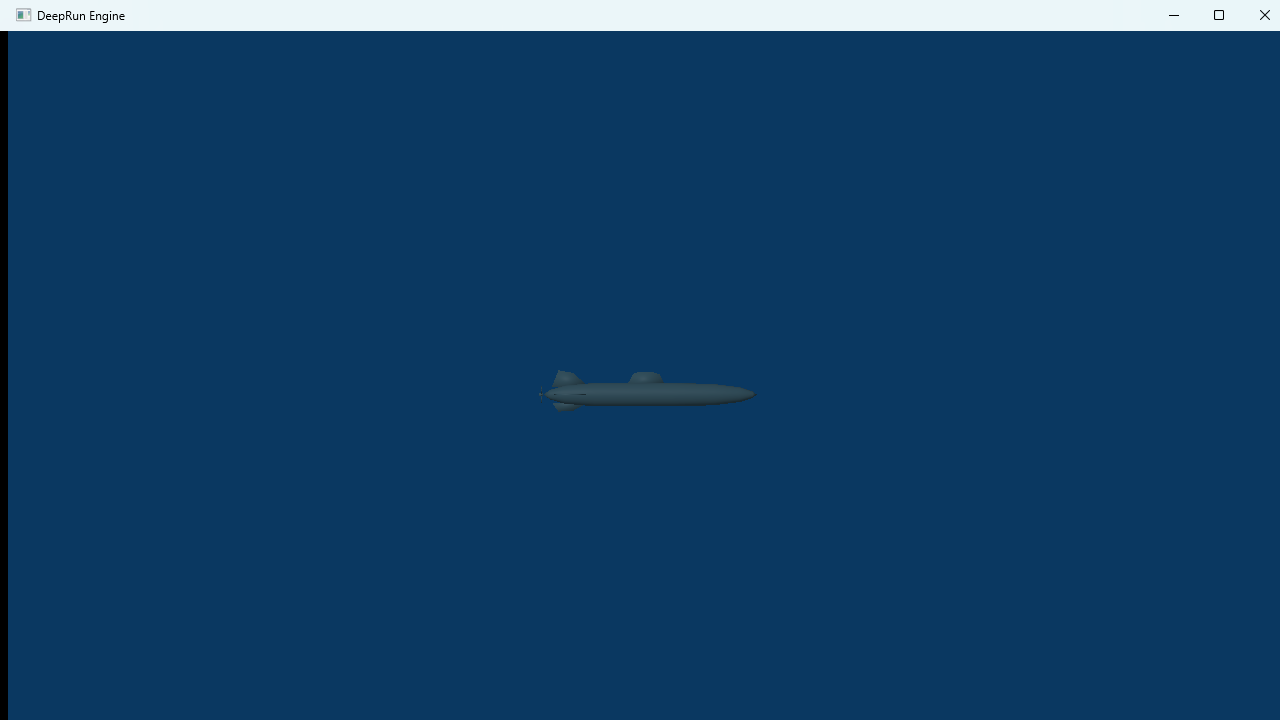
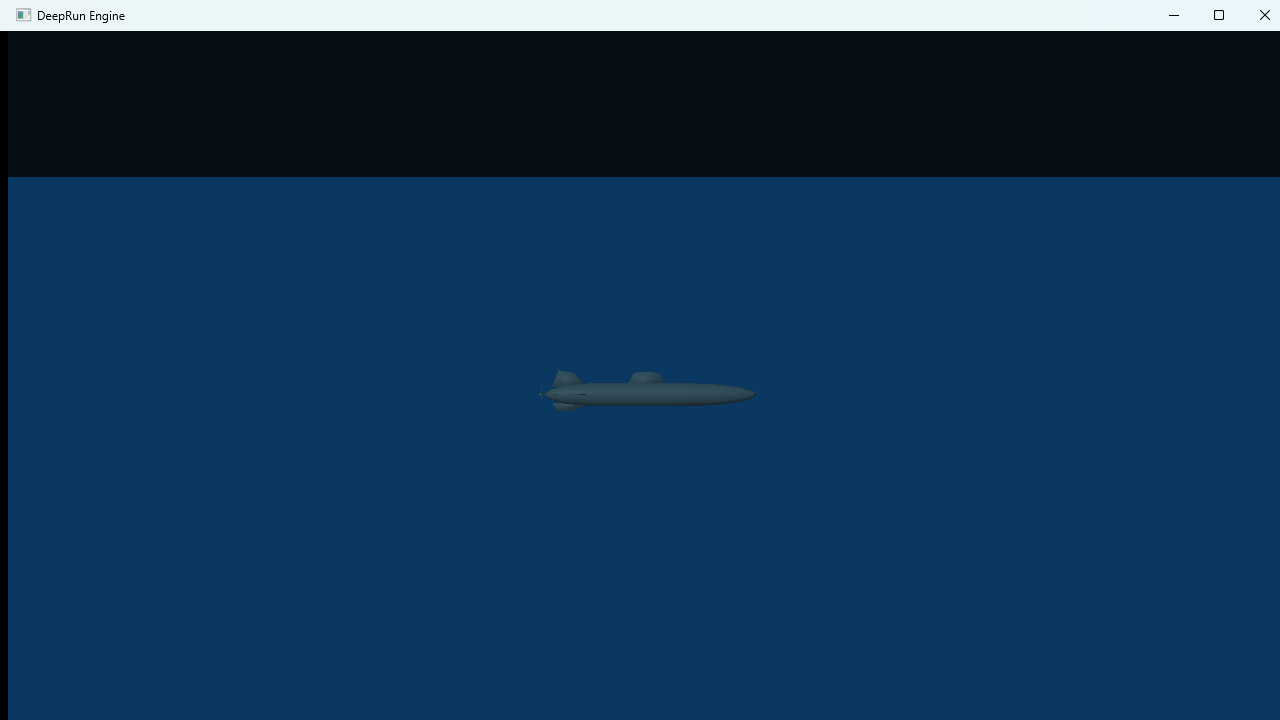
M2 D2

Changed region(s): [[0.0, 0.0306, 1.0, 0.2444]]

diff --git a/Engine/Render/D3D12Renderer.cpp b/Engine/Render/D3D12Renderer.cpp
@@ -796,41 +796,35 @@ public:
         {
             return std::unexpected("render target has no size for viewport clear");
         }
-        if (!color.IsFinite())
+        const auto validatedColor = ValidateRgbaColor(color);
+        if (!validatedColor)
         {
-            return std::unexpected("viewport clear color contains non-finite values");
+            return std::unexpected(validatedColor.error());
         }
 
-        const auto validated = ValidateViewportRect(rect);
-        if (!validated)
+        const auto validatedRect = ValidateViewportRect(rect);
+        if (!validatedRect)
         {
-            return std::unexpected(validated.error());
+            return std::unexpected(validatedRect.error());
+        }
+        const auto pixelRect = ToPixelRect(*validatedRect, width, height);
+        if (!pixelRect)
+        {
+            return std::unexpected(pixelRect.error());
         }
 
-        // Normalized viewport coordinates -> integer pixel rectangle. D3D12 scissor rects use a top-left
-        // origin with right/bottom exclusive, so left/top edges floor and right/bottom edges ceil (a tiny
-        // epsilon absorbs floating-point drift at mathematically exact boundaries): a rect touching a
-        // viewport edge covers exactly its pixels without gaps or overruns.
-        constexpr float PixelEpsilon = 1.0e-6F;
-        const auto floorPixel = [](const float value, const std::uint32_t extent) noexcept {
-            return static_cast<std::uint32_t>(std::clamp(std::floor(value + PixelEpsilon), 0.0F,
-                                                         static_cast<float>(extent)));
-        };
-        const auto ceilPixel = [](const float value, const std::uint32_t extent) noexcept {
-            return static_cast<std::uint32_t>(std::clamp(std::ceil(value - PixelEpsilon), 1.0F,
-                                                         static_cast<float>(extent)));
-        };
-        D3D12_RECT pixelRect{
-            .left = static_cast<LONG>(floorPixel(validated->left * static_cast<float>(width), width)),
-            .top = static_cast<LONG>(floorPixel(validated->top * static_cast<float>(height), height)),
-            .right = static_cast<LONG>(ceilPixel(validated->right * static_cast<float>(width), width)),
-            .bottom = static_cast<LONG>(ceilPixel(validated->bottom * static_cast<float>(height), height))};
-
-        const D3D12_RECT previousScissor = currentScissorRect;
-        const FLOAT clearColor[4] = {color.r, color.g, color.b, color.a};
-        commandList->RSSetScissorRects(1, &pixelRect);
-        commandList->ClearRenderTargetView(rtvHandles[frameIndex], clearColor, 0, nullptr);
-        commandList->RSSetScissorRects(1, &previousScissor);
+        // D3D12 ClearRenderTargetView is bounded by its OWN rect array — not by the rasterizer scissor.
+        // NumRects=0/pRects=nullptr would clear the ENTIRE render target regardless of any scissor, so the
+        // pixel rect must be passed explicitly (M2 Slice D2 correction). No scissor save/restore is needed:
+        // the model draw path keeps the full-viewport scissor set by BeginFrame.
+        const D3D12_RECT clearRect{
+            .left = static_cast<LONG>(pixelRect->left),
+            .top = static_cast<LONG>(pixelRect->top),
+            .right = static_cast<LONG>(pixelRect->right),
+            .bottom = static_cast<LONG>(pixelRect->bottom)};
+        const FLOAT clearColor[4] = {validatedColor->r, validatedColor->g, validatedColor->b,
+                                     validatedColor->a};
+        commandList->ClearRenderTargetView(rtvHandles[frameIndex], clearColor, 1, &clearRect);
         return {};
     }
 
@@ -887,10 +881,14 @@ public:
         viewport.Width = static_cast<float>(width);
         viewport.Height = static_cast<float>(height);
         viewport.MaxDepth = 1.0F;
-        currentScissorRect = D3D12_RECT{0, 0, static_cast<LONG>(width), static_cast<LONG>(height)};
+        // Full-viewport rasterizer scissor for the model draw path. ClearViewportRect does NOT rely on it:
+        // D3D12 RTV clears are bounded by their own rect array, not by the scissor (M2 Slice D2 correction).
+        const D3D12_RECT fullScissor{0, 0, static_cast<LONG>(width), static_cast<LONG>(height)};
         commandList->RSSetViewports(1, &viewport);
-        commandList->RSSetScissorRects(1, &currentScissorRect);
+        commandList->RSSetScissorRects(1, &fullScissor);
         commandList->OMSetRenderTargets(1, &rtvHandles[frameIndex], FALSE, &dsvHandle);
+        // Generic default background for frames before/without game content. The Game paints its own
+        // presentation colors over this (M2 Slice D2) — this value carries no contract to gameplay.
         constexpr float clearColor[] = {0.015F, 0.055F, 0.075F, 1.0F};
         commandList->ClearRenderTargetView(rtvHandles[frameIndex], clearColor, 0, nullptr);
         commandList->ClearDepthStencilView(dsvHandle, D3D12_CLEAR_FLAG_DEPTH, 1.0F, 0, 0, nullptr);
@@ -981,7 +979,6 @@ public:
     std::uint32_t frameIndex = 0;
     std::uint32_t width = 0;
     std::uint32_t height = 0;
-    D3D12_RECT currentScissorRect{};
     UINT rtvIncrement = 0;
     std::vector<GpuModel> gpuModels;
     bool initialized = false;

diff --git a/Tests/TestMain.cpp b/Tests/TestMain.cpp
@@ -2409,6 +2409,84 @@ bool D2ClearRectValidation()
            !ValidateViewportRect({.left = -5.0F, .top = 0.0F, .right = -1.0F, .bottom = 1.0F}); // fully outside -> empty after clamp
 }
 
+bool D2ClearColorValidation()
+{
+    using DeepRun::Render::ValidateRgbaColor;
+
+    // Contract boundaries are accepted unchanged.
+    const auto black = ValidateRgbaColor({0.0F, 0.0F, 0.0F, 0.0F});
+    if (!black || black->r != 0.0F || black->a != 0.0F)
+    {
+        return false;
+    }
+    const auto white = ValidateRgbaColor({1.0F, 1.0F, 1.0F, 1.0F});
+    if (!white || white->b != 1.0F)
+    {
+        return false;
+    }
+
+    // The current D2 presentation colors must pass without modification.
+    const RgbaColor& expectedAbove = DeepRun::Game::M2AboveWaterBackgroundColor;
+    const auto above = ValidateRgbaColor(expectedAbove);
+    if (!above || above->r != expectedAbove.r || above->g != expectedAbove.g ||
+        above->b != expectedAbove.b || above->a != expectedAbove.a)
+    {
+        return false;
+    }
+    const auto below = ValidateRgbaColor(DeepRun::Game::M2UnderwaterBackgroundColor);
+    if (!below)
+    {
+        return false;
+    }
+
+    // Out-of-range and non-finite components are rejected — never silently clamped.
+    const float nan = std::numeric_limits<float>::quiet_NaN();
+    const float infinity = std::numeric_limits<float>::infinity();
+    return !ValidateRgbaColor({-0.1F, 0.5F, 0.5F, 1.0F}) &&   // negative r
+           !ValidateRgbaColor({0.5F, 1.2F, 0.5F, 1.0F}) &&    // g > 1
+           !ValidateRgbaColor({0.5F, 0.5F, 0.5F, -1.0F}) &&   // negative a
+           !ValidateRgbaColor({nan, 0.5F, 0.5F, 1.0F}) &&     // NaN r
+           !ValidateRgbaColor({0.5F, infinity, 0.5F, 1.0F}) && // Inf g
+           !ValidateRgbaColor({-infinity, 0.5F, 0.5F, 1.0F}); // -Inf r
+}
+
+bool D2PixelRectConversion()
+{
+    using DeepRun::Render::ToPixelRect;
+
+    // Focused conversion case: normalized {0, 0.2, 1, 1} on a 1280x720 target -> approximately
+    // pixel rect {0, 144, 1280, 720} (top-left origin, right/bottom exclusive).
+    const auto quarter = ToPixelRect({.left = 0.0F, .top = 0.2F, .right = 1.0F, .bottom = 1.0F}, 1280U,
+                                     720U);
+    if (!quarter)
+    {
+        return false;
+    }
+    // Signed arithmetic: an unsigned `expected - 1` would wrap around for expected == 0.
+    const auto nearPixel = [](const std::uint32_t value, const std::uint32_t expected) noexcept {
+        return static_cast<std::int64_t>(value) >= static_cast<std::int64_t>(expected) - 1 &&
+               static_cast<std::int64_t>(value) <= static_cast<std::int64_t>(expected) + 1;
+    };
+    if (!nearPixel(quarter->left, 0U) || !nearPixel(quarter->top, 144U) ||
+        !nearPixel(quarter->right, 1280U) || !nearPixel(quarter->bottom, 720U))
+    {
+        return false;
+    }
+
+    // The full viewport maps to the exact target extents.
+    const auto full = ToPixelRect({.left = 0.0F, .top = 0.0F, .right = 1.0F, .bottom = 1.0F}, 1280U,
+                                  720U);
+    if (!full || full->left != 0U || full->top != 0U || full->right != 1280U || full->bottom != 720U)
+    {
+        return false;
+    }
+
+    // Malformed input is rejected: zero-size target and non-finite rect.
+    const float nan = std::numeric_limits<float>::quiet_NaN();
+    return !ToPixelRect({.left = 0.0F, .top = 0.0F, .right = 1.0F, .bottom = 1.0F}, 0U, 720U) &&
+           !ToPixelRect({.left = nan, .top = 0.0F, .right = 1.0F, .bottom = 1.0F}, 1280U, 720U);
+}
+
 bool D2PresentationColorsAreDistinct()
 {
     // The two M2 presentation colors must be visibly distinct (obvious above/underwater difference) and
@@ -2597,6 +2675,8 @@ int main(const int argumentCount, const char* const* arguments)
         {"D2 surface projection aspect ratio change", D2SurfaceProjectionAspectRatioChange},
         {"D2 surface projection edge cases", D2SurfaceProjectionEdgeCases},
         {"D2 clear rect validation policy", D2ClearRectValidation},
+        {"D2 clear color validation contract", D2ClearColorValidation},
+        {"D2 pixel rect conversion", D2PixelRectConversion},
         {"D2 presentation colors distinct and opaque", D2PresentationColorsAreDistinct},
         // M2 Slice C2: architecture boundary scans.
         {"Game code has no Jolt dependency", GameCodeHasNoJoltDependency},

diff --git a/Engine/Render/ClearRect.cpp b/Engine/Render/ClearRect.cpp
@@ -40,4 +40,58 @@ std::expected<ViewportRect, std::string> ValidateViewportRect(const ViewportRect
     }
     return clamped;
 }
+
+std::expected<RgbaColor, std::string> ValidateRgbaColor(const RgbaColor& color)
+{
+    if (!color.IsFinite())
+    {
+        return std::unexpected("clear color contains non-finite values");
+    }
+    // The [0, 1] contract is enforced exactly: out-of-range components are rejected, never clamped.
+    if (color.r < 0.0F || color.r > 1.0F || color.g < 0.0F || color.g > 1.0F || color.b < 0.0F ||
+        color.b > 1.0F || color.a < 0.0F || color.a > 1.0F)
+    {
+        return std::unexpected("clear color component is outside [0, 1]");
+    }
+    return color;
+}
+
+std::expected<PixelRect, std::string> ToPixelRect(
+    const ViewportRect& rect,
+    const std::uint32_t width,
+    const std::uint32_t height)
+{
+    if (width == 0 || height == 0)
+    {
+        return std::unexpected("render target has no size for pixel conversion");
+    }
+    if (!rect.IsFinite())
+    {
+        return std::unexpected("viewport rect contains non-finite values");
+    }
+
+    // Normalized viewport coordinates -> integer pixel rectangle. D3D12 rects use a top-left origin with
+    // right/bottom exclusive, so left/top edges floor and right/bottom edges ceil (a tiny epsilon absorbs
+    // floating-point drift at mathematically exact boundaries): a rect touching a viewport edge covers
+    // exactly its pixels without gaps or overruns.
+    constexpr float PixelEpsilon = 1.0e-6F;
+    const auto floorPixel = [](const float value, const std::uint32_t extent) noexcept {
+        return static_cast<std::uint32_t>(std::clamp(std::floor(value + PixelEpsilon), 0.0F,
+                                                     static_cast<float>(extent)));
+    };
+    const auto ceilPixel = [](const float value, const std::uint32_t extent) noexcept {
+        return static_cast<std::uint32_t>(std::clamp(std::ceil(value - PixelEpsilon), 1.0F,
+                                                     static_cast<float>(extent)));
+    };
+    const PixelRect pixel{
+        .left = floorPixel(rect.left * static_cast<float>(width), width),
+        .top = floorPixel(rect.top * static_cast<float>(height), height),
+        .right = ceilPixel(rect.right * static_cast<float>(width), width),
+        .bottom = ceilPixel(rect.bottom * static_cast<float>(height), height)};
+    if (pixel.right <= pixel.left || pixel.bottom <= pixel.top)
+    {
+        return std::unexpected("viewport rect collapses to an empty pixel rectangle");
+    }
+    return pixel;
+}
 }

diff --git a/Engine/Render/ClearRect.h b/Engine/Render/ClearRect.h
@@ -1,12 +1,15 @@
 #pragma once
 
+#include <cstdint>
 #include <expected>
 #include <string>
 
 namespace DeepRun::Render
 {
 // Renderer-neutral RGBA color, each component in [0, 1]. Presentation-only data: the renderer has no
-// knowledge of what a given color means to gameplay.
+// knowledge of what a given color means to gameplay. The [0, 1] range is part of the contract and enforced
+// by ValidateRgbaColor: non-finite or out-of-range components are recoverable errors, never silently
+// clamped (M2 Slice D2 correction).
 struct RgbaColor final
 {
     float r = 0.0F;
@@ -37,4 +40,31 @@ struct ViewportRect final
 // floating-point drift at the viewport edges. A zero-area result after clamping (e.g. a rect fully outside
 // the viewport) is rejected: it must never reach the GPU as an invalid rectangle.
 [[nodiscard]] std::expected<ViewportRect, std::string> ValidateViewportRect(const ViewportRect& rect);
+
+// A rectangle in integer pixel coordinates of a render target: top-left origin, right/bottom exclusive
+// (D3D12 convention). Renderer-neutral — no D3D12 types leak through this API.
+struct PixelRect final
+{
+    std::uint32_t left = 0;
+    std::uint32_t top = 0;
+    std::uint32_t right = 0;
+    std::uint32_t bottom = 0;
+};
+
+// Pure validation for D3D12Renderer::ClearViewportRect color input, separated from D3D12 so it can be
+// tested without a GPU (M2 Slice D2 correction). Contract: every component must be finite and within
+// [0, 1]. Malformed colors are rejected as recoverable errors — the renderer never silently clamps a
+// caller color. Valid colors pass through unchanged.
+[[nodiscard]] std::expected<RgbaColor, std::string> ValidateRgbaColor(const RgbaColor& color);
+
+// Pure normalized -> pixel conversion for D3D12Renderer::ClearViewportRect, separated from D3D12 so it can
+// be tested without a GPU (M2 Slice D2 correction). Left/top edges floor and right/bottom edges ceil (a
+// tiny epsilon absorbs floating-point drift at mathematically exact boundaries) so a rect touching a
+// viewport edge covers exactly its pixels without gaps or overruns. Non-finite input, zero-size targets,
+// and rects that collapse to zero pixel area are rejected: they must never reach the GPU as an invalid
+// rectangle.
+[[nodiscard]] std::expected<PixelRect, std::string> ToPixelRect(
+    const ViewportRect& rect,
+    std::uint32_t width,
+    std::uint32_t height);
 }

diff --git a/Game/PhysicalPlayground.cpp b/Game/PhysicalPlayground.cpp
@@ -268,12 +268,22 @@ std::expected<Render::ModelDrawStats, std::string> PhysicalPlayground::Render(
         return std::unexpected(camera ? "physical playground bounds do not fit the camera" : camera.error());
     }
 
-    // D2 flat-water cross-section presentation: project the AUTHORITATIVE surface level through the actual
-    // gameplay camera and fill everything below it with a solid water color via the generic renderer
-    // clear-rect. The renderer receives only a normalized rect + RGBA — no WaterBody, no marine semantics.
+    // D2 flat-water cross-section presentation: BOTH presentation colors belong to the Game. The full
+    // viewport is first painted with the above-water color, then everything below the AUTHORITATIVE surface
+    // level (projected through the actual gameplay camera) is overpainted with the underwater color via the
+    // generic renderer clear-rect API. The renderer receives only normalized rects + RGBA — no WaterBody,
+    // no marine semantics; its BeginFrame default clear is a generic fallback this path fully covers.
     // Camera clipping happens in the Game projection helper; the authoritative water state is never touched
     // by what is visible. This temporary M2 path must run before the submarine draw so the hull renders on
     // top of the water background (ImGui stays above everything via the engine overlay).
+    const auto aboveWaterCleared = renderer.ClearViewportRect(
+        Render::ViewportRect{}, // full viewport: default {0, 0, 1, 1}
+        M2AboveWaterBackgroundColor);
+    if (!aboveWaterCleared)
+    {
+        return std::unexpected(aboveWaterCleared.error());
+    }
+
     const auto underwaterRegion = UnderwaterRegionForSurface(*camera, water_->Config().surfaceLevelY);
     if (!underwaterRegion)
     {

diff --git a/DeepRun/Main.cpp b/DeepRun/Main.cpp
@@ -317,9 +317,10 @@ int main(const int argumentCount, char** argumentValues)
 
                 // Bounded visual validation capture (M2 Slice D2): one frame near the start and one later
                 // frame, so the gravity-driven fall is visible between them. The smoke run resizes the window
-                // at engine frame 30 (1280x720 -> 1024x640), so the later capture also proves the waterline
-                // stays tied to world Y=0 (not a fixed pixel row) with the 600 m horizontal span unchanged.
-                // Failures never fail the run.
+                // at engine frame 30 from 16:9 to 16:10 (1280x720 -> 1024x640), so the later capture proves
+                // the waterline re-derives from world Y=0 through the new projection (normalized ~0.233 at
+                // 16:10 vs ~0.204 at 16:9) instead of staying on a fixed pixel row, with the 600 m horizontal
+                // span unchanged. Failures never fail the run.
                 if (captureEnabled && !options.headless && !capturedInitial && renderFrames == 3)
                 {
                     std::vector<std::byte> pixels;

diff --git a/Game/WaterPresentation.h b/Game/WaterPresentation.h
@@ -13,9 +13,10 @@ namespace DeepRun::Game
 {
 // M2 Slice D2 presentation tuning (Game-owned). These are temporary visual values for the flat-water
 // cross-section, not an art direction and not an architectural contract: M3 may replace the whole
-// presentation path without touching the authoritative WaterBody. The above-water region is the engine's
-// existing background clear; only the underwater fill color is applied by the Game through the generic
-// renderer clear-rect API.
+// presentation path without touching the authoritative WaterBody. BOTH colors are applied by the Game
+// through the generic renderer clear-rect API (full viewport above-water first, then the underwater
+// region): the renderer's BeginFrame default clear is only a generic fallback and carries no contract to
+// these values.
 constexpr Render::RgbaColor M2AboveWaterBackgroundColor{0.015F, 0.055F, 0.075F, 1.0F};
 constexpr Render::RgbaColor M2UnderwaterBackgroundColor{0.04F, 0.22F, 0.38F, 1.0F};
 
